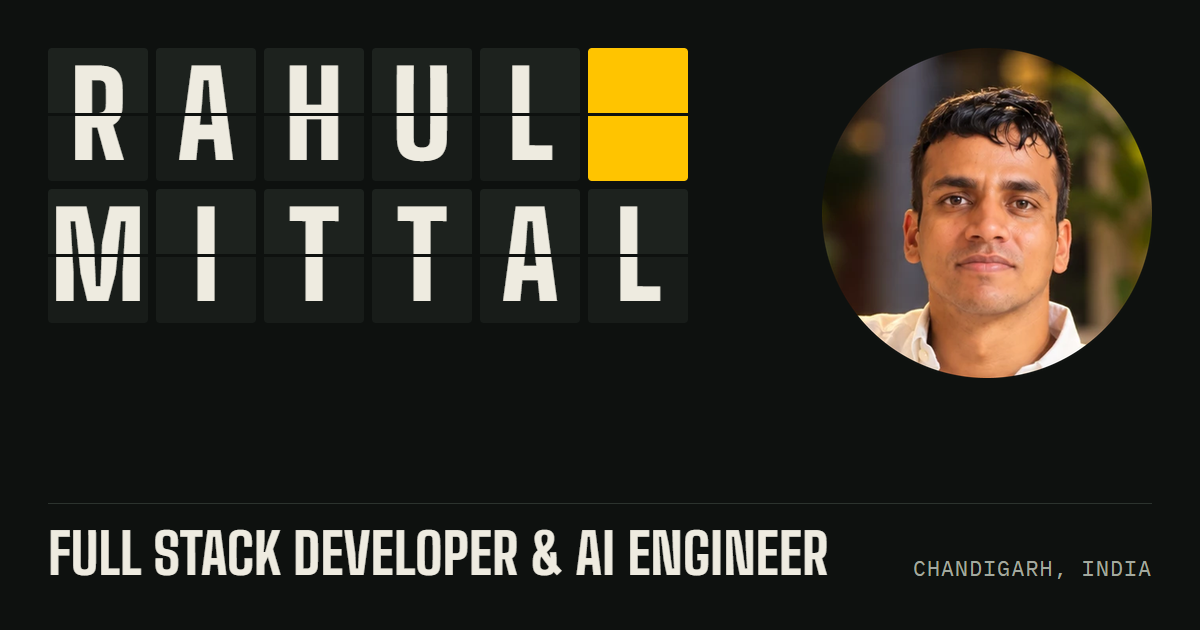
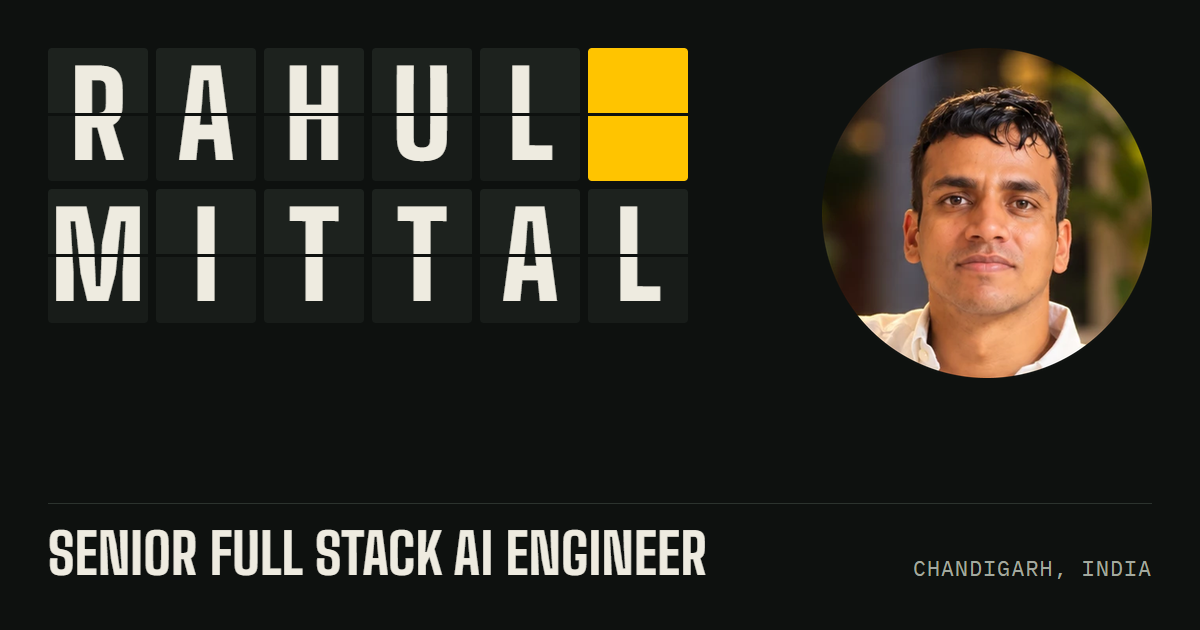
Update title to Senior Full Stack AI Engineer and remove years of experience

Changed region(s): [[0.0308, 0.8143, 0.7092, 0.9349]]

diff --git a/src/data/portfolio.ts b/src/data/portfolio.ts
@@ -27,7 +27,7 @@ export type Project = {
 
 export const profile = {
   name: "Rahul Mittal",
-  role: "Full Stack Developer & AI Engineer",
+  role: "Senior Full Stack AI Engineer",
   location: "Chandigarh, India",
   photo: { src: "/rahul-mittal.webp", alt: "Portrait of Rahul Mittal" },
   email: "rahulmittal.768@gmail.com",
@@ -40,10 +40,9 @@ export const profile = {
   resumeUrl: "",
   headline: "Software that real operations run on.",
   intro:
-    "I'm a full stack developer and AI engineer. For 3+ years I've built ERP modules, healthcare compliance platforms and AI products like Canvas Client, Agentra and Agent 69.",
+    "I'm a senior full stack AI engineer. I've built ERP modules, healthcare compliance platforms and AI products like Canvas Client, Agentra and Agent 69.",
   facts: [
     { label: "Now", value: "Nucleo Analytics, Product team" },
-    { label: "Experience", value: "3+ years" },
     { label: "Core stack", value: "React, Next.js, Node.js, Python, RAG, LangChain" },
     { label: "Focus", value: "AI engineering, microservices, system design" },
     { label: "Recognition", value: "Community Award, 0G APAC Hackathon" },
@@ -491,8 +490,8 @@ export const experience = [
   {
     company: "Ultivic Pvt",
     role: "Full Stack Developer",
-    place: "Mohali, India",
     period: "07/2025 – 2026",
+    place: "Mohali, India",
     about: "Web and mobile application development.",
     points: [
       "Developed and enforced role-based access control with granular permissions for secure, multi-level data access.",
@@ -503,8 +502,8 @@ export const experience = [
   {
     company: "Onfinity",
     role: "Full Stack Developer",
-    place: "Mohali, India",
     period: "08/2023 – 07/2025",
+    place: "Mohali, India",
     about: "Web application development. Formerly Vienna Advantage.",
     points: [
       "Improved backend processing time by 30% by optimizing database queries and server-side logic.",

diff --git a/src/app/layout.tsx b/src/app/layout.tsx
@@ -23,9 +23,9 @@ const plexMono = IBM_Plex_Mono({
   weight: ["400", "500"],
 });
 
-const title = "Rahul Mittal | Full Stack Developer & AI Engineer";
+const title = "Rahul Mittal | Senior Full Stack AI Engineer";
 const description =
-  "Full stack developer and AI engineer in Chandigarh building ERP modules, healthcare compliance platforms and agentic AI products with React, Next.js and Node.js.";
+  "Senior full stack AI engineer in Chandigarh building ERP modules, healthcare compliance platforms and agentic AI products with React, Next.js and Node.js.";
 
 export const metadata: Metadata = {
   metadataBase: new URL(siteUrl),
